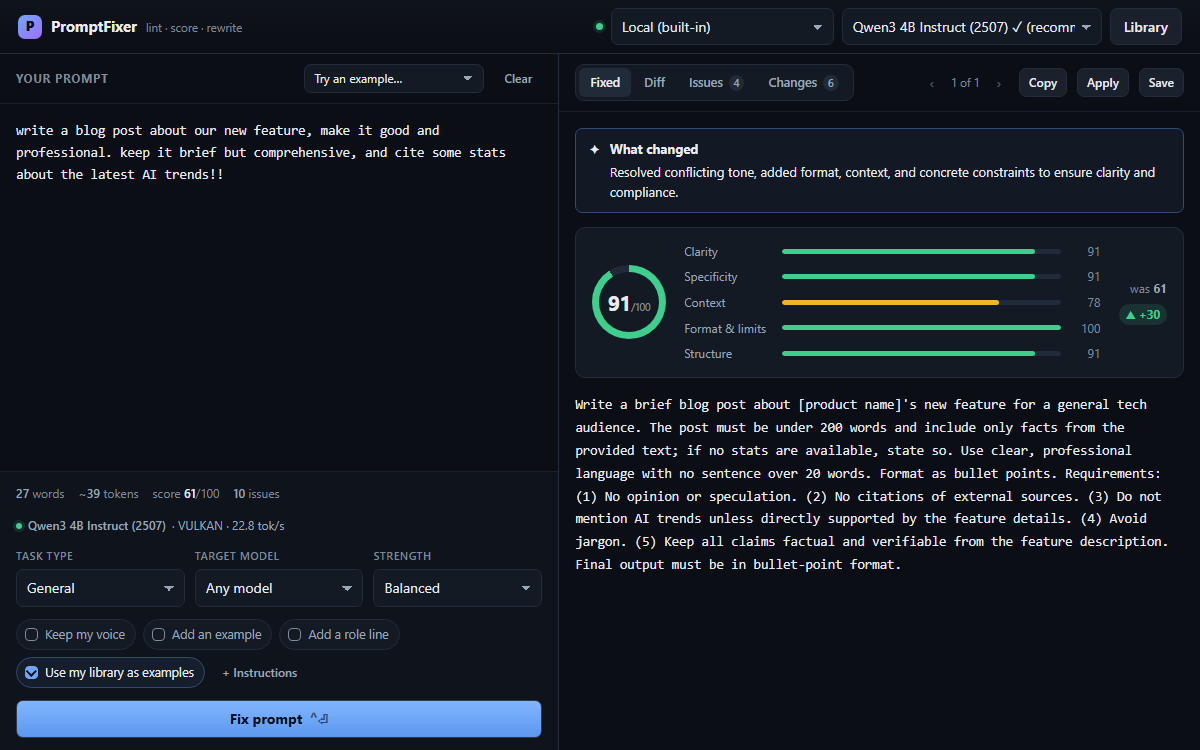
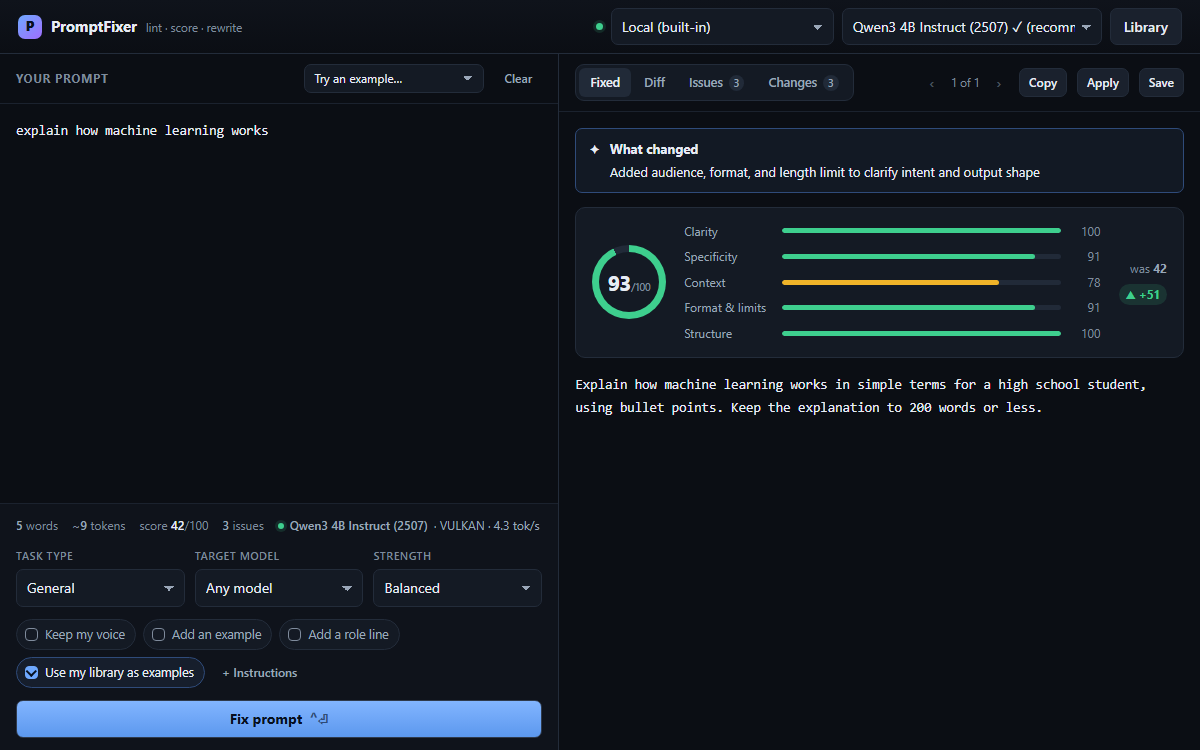
feat: update PromptFixer description and screenshot details in README and HTML; enhance styles for better image display

diff --git a/index.html b/index.html
@@ -702,7 +702,7 @@
                 <article class="project-card">
                     <figure class="project-media">
                         <img src="./img/promptfixer.png" width="1200" height="750" loading="lazy" decoding="async"
-                             alt="PromptFixer window. Left: a sample prompt scored 61 out of 100 with 10 issues. Right: the local model's rewrite scored 91, with a summary of what changed and per-category bars for clarity, specificity, context, format and structure.">
+                             alt="PromptFixer window. Left: the prompt 'explain how machine learning works' scored 42 out of 100 with 3 issues. Right: the local model's rewrite scored 93, up 51, with a summary of what changed, per-category bars for clarity, specificity, context, format and structure, and the rewritten prompt, which names the audience, asks for bullet points and caps the length at 200 words.">
                     </figure>
                     <div class="project-body">
                         <div class="project-info">
@@ -715,6 +715,9 @@
                             </div>
                             <p class="project-desc">
                                 Lint, score and rewrite LLM prompts. A Windows desktop app with a built-in local model; cloud providers optional.
+                            </p>
+                            <p class="project-desc">
+                                I built it with Claude Code, for personal use: fixing a prompt before I send it means fewer wasted tokens and a better first answer.
                             </p>
                             <ul class="project-points">
                                 <li>Scores a prompt instantly against ~30 prompt-engineering rules.</li>

diff --git a/styles/styles.css b/styles/styles.css
@@ -757,6 +757,10 @@ section {
   grid-template-columns: repeat(auto-fit, minmax(min(100%, 480px), 1fr));
   gap: 1.4rem;
   padding: 2.2rem 0 3rem;
+  /* Never wider than the screenshot's own pixels, so it is never upscaled
+     and never blurry at 100% zoom on a wide screen. */
+  max-width: 1200px;
+  margin: 0 auto;
 }
 /* The card surface stays the page colour on purpose: the grey and accent text
    tokens were tuned for AA against --color-primary, and on a grey-5 surface the
@@ -777,13 +781,13 @@ section {
   margin: 0;
   border-bottom: 1px solid var(--color-grey-5);
 }
+/* The whole screenshot, always. A max-height with object-fit: cover used to
+   crop it from the bottom, and the crop grew with the card, so at 100% zoom on
+   a wide screen the rewritten prompt was cut off and only came back at 150%. */
 .project-media img {
   display: block;
   width: 100%;
   height: auto;
-  max-height: 420px;
-  object-fit: cover;
-  object-position: top;
 }
 /* Two columns when two 320px columns fit inside the card, one otherwise. The
    card's own width decides, so no breakpoint has to know about it. */

diff --git a/README.md b/README.md
@@ -113,7 +113,8 @@ app.js                      tab navigation, theme toggle, contact-detail assembl
 form-submission.js          contact form validation and submission
 notification.js             toast notifications (an ARIA live region)
 styles/styles.css           the ONLY stylesheet — see the note below
-img/promptfixer.png         the PromptFixer screenshot on the Projects tab (a real local-model run)
+img/promptfixer.png         the PromptFixer screenshot on the Projects tab (a real local-model run,
+                            made with PromptFixer's scripts/capture-screenshot.mjs; the command is in its header)
 scripts/build-icon-sprite.js  regenerates the sprite from Font Awesome
 tests/e2e/                  Playwright specs
 tests/static-server.js      zero-dependency static server for local and CI runs
